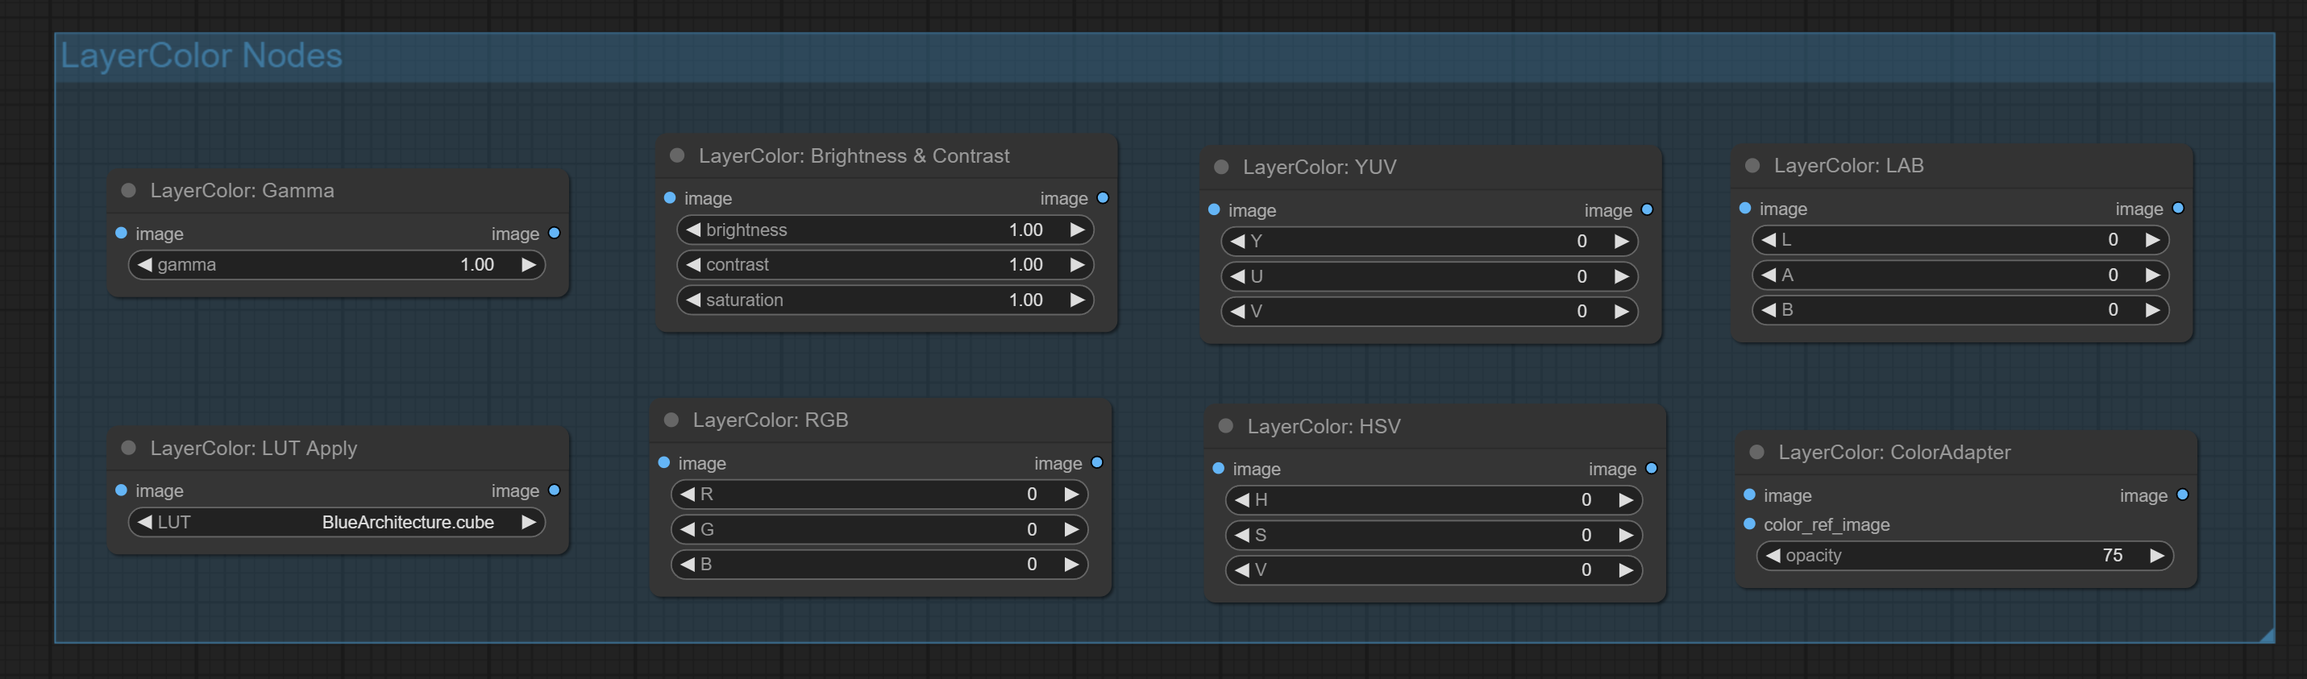
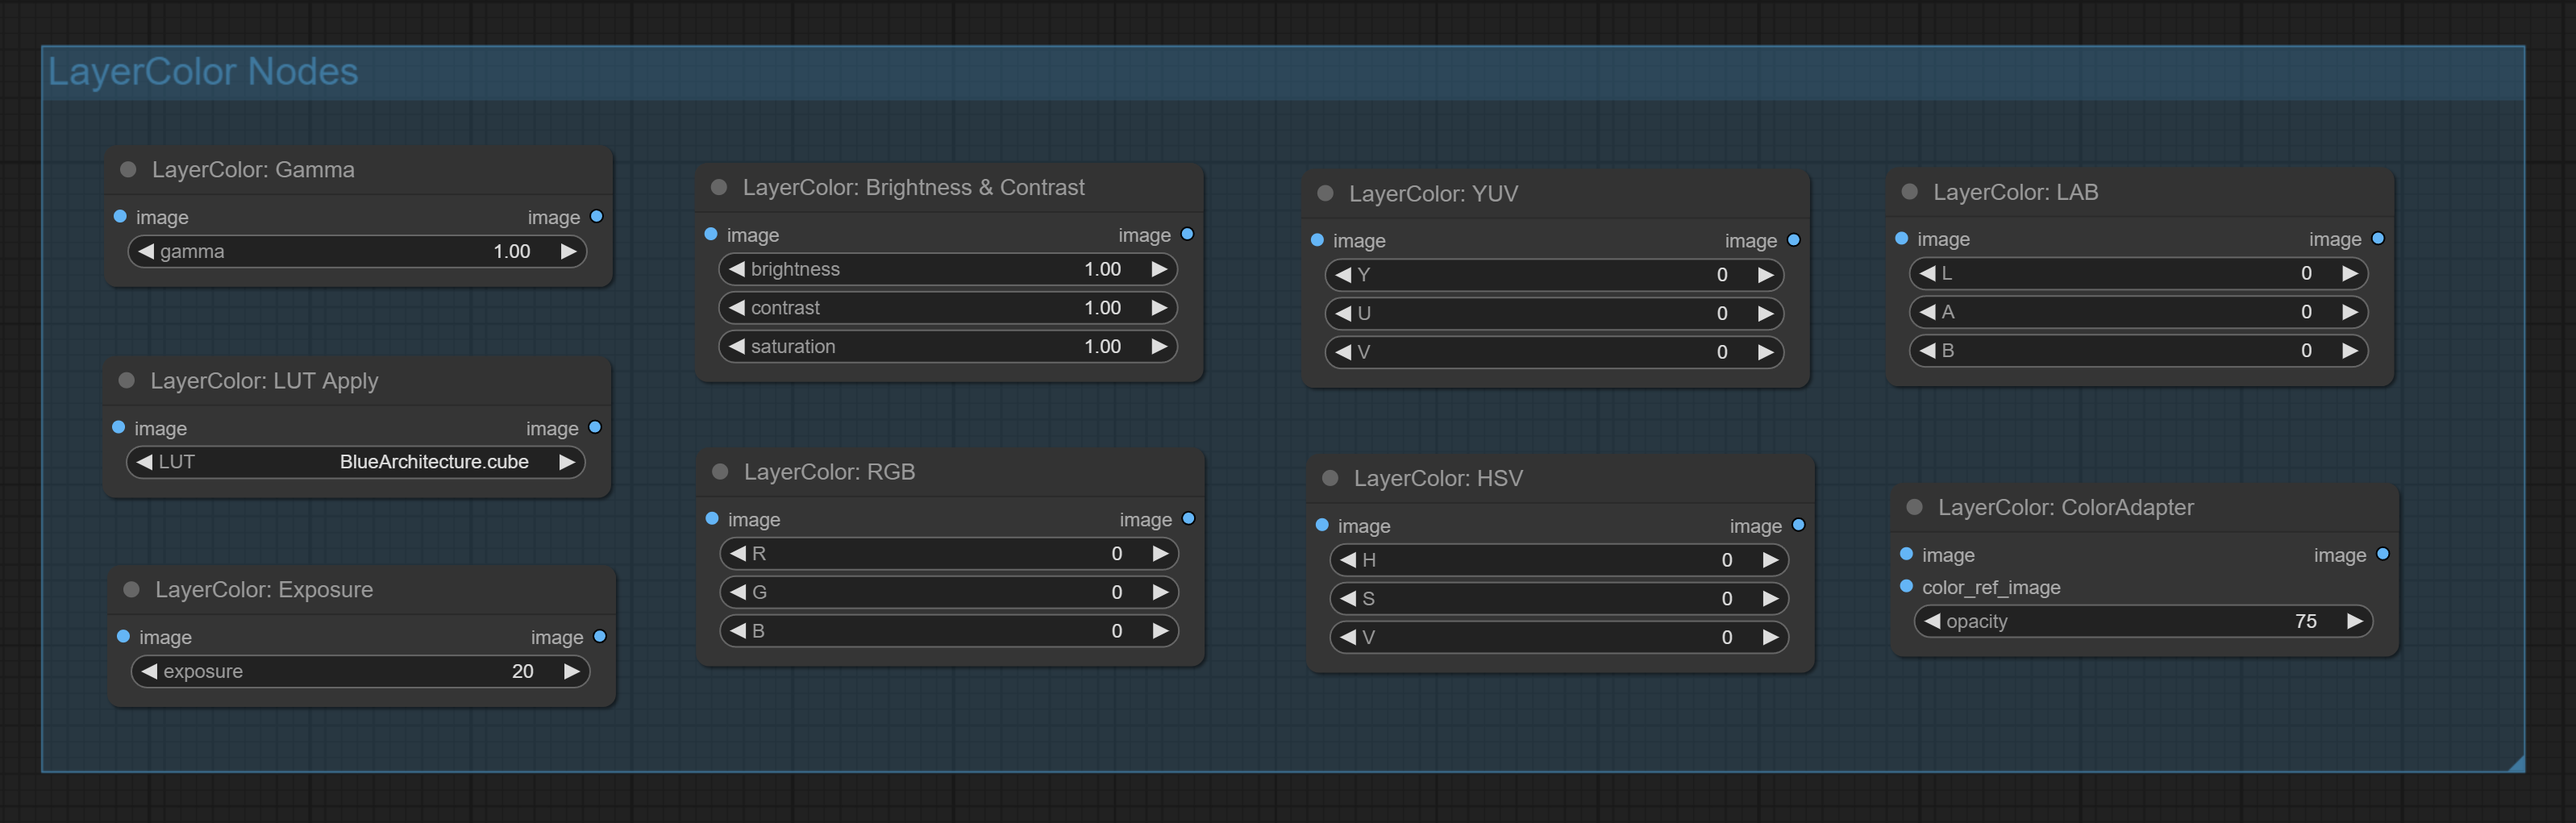
Commit MaskEdgeUltraDetail and Exposure nodes

diff --git a/py/mask_edge_ultrl_detail.py b/py/mask_edge_ultrl_detail.py
@@ -1,0 +1,82 @@
+from .imagefunc import *
+
+NODE_NAME = 'MaskEdgeUltraDetail'
+
+class MaskEdgeUltraDetail:
+    def __init__(self):
+        pass
+
+    @classmethod
+    def INPUT_TYPES(cls):
+        method_list = ['PyMatting', 'OpenCV-GuidedFilter']
+        return {
+            "required": {
+                "image": ("IMAGE",),
+                "mask": ("MASK",),
+                "method": (method_list,),
+                "mask_grow": ("INT", {"default": 0, "min": -999, "max": 999, "step": 1}),
+                "fix_gap": ("INT", {"default": 0, "min": 0, "max": 32, "step": 1}),
+                "fix_threshold": ("FLOAT", {"default": 0.75, "min": 0.01, "max": 0.99, "step": 0.01}),
+                "detail_range": ("INT", {"default": 12, "min": 0, "max": 256, "step": 1}),
+                "black_point": ("FLOAT", {"default": 0.01, "min": 0.01, "max": 0.98, "step": 0.01}),
+                "white_point": ("FLOAT", {"default": 0.99, "min": 0.02, "max": 0.99, "step": 0.01}),
+            },
+            "optional": {
+            }
+        }
+
+    RETURN_TYPES = ("IMAGE", "MASK", )
+    RETURN_NAMES = ("image", "mask", )
+    FUNCTION = "mask_edge_ultra_detail"
+    CATEGORY = '😺dzNodes/LayerMask'
+  
+    def mask_edge_ultra_detail(self, image, mask, method, mask_grow, fix_gap, fix_threshold,
+                               detail_range, black_point, white_point,):
+        ret_images = []
+        ret_masks = []
+        l_images = []
+        l_masks = []
+        if mask.dim() == 2:
+            mask = torch.unsqueeze(mask, 0)
+        for l in image:
+            l_images.append(torch.unsqueeze(l, 0))
+        for m in mask:
+            l_masks.append(torch.unsqueeze(m, 0))
+        if len(l_images) != len(l_masks) or tensor2pil(l_images[0]).size != tensor2pil(l_masks[0]).size:
+            log(f"Error: {NODE_NAME} skipped, because mask does'nt match image.")
+            return (image, mask,)
+
+        for i in range(len(l_images)):
+            _image = l_images[i]
+            orig_image = tensor2pil(_image).convert('RGB')
+            _mask = l_masks[i]
+            if mask_grow != 0:
+                _mask = expand_mask(_mask, mask_grow, mask_grow//2)
+            if method == 'OpenCV-GuidedFilter':
+                if fix_gap:
+                    _mask = mask_fix(_mask, 1, fix_gap, fix_threshold, fix_threshold)
+                _mask = guided_filter_alpha(_image, tensor2pil(_mask), detail_range, 0.15)
+                _mask = tensor2pil(histogram_remap(_mask, black_point, white_point))
+            else:
+                try:
+                    if fix_gap:
+                        _mask = mask_fix(_mask, 1, fix_gap, fix_threshold, fix_threshold)
+                    _mask = tensor2pil(mask_edge_detail(_image, tensor2pil(_mask), detail_range, black_point, white_point))
+                except Exception as e:
+                    log(f"{NODE_NAME} Error on process PyMatting, mask will output orignal.", message_type='error')
+                    print(e)
+                    _mask = tensor2pil(_mask)
+            ret_image = RGB2RGBA(orig_image, _mask.convert('L'))
+            ret_images.append(pil2tensor(ret_image))
+            ret_masks.append(image2mask(_mask))
+
+        log(f"{NODE_NAME} Processed {len(ret_images)} image(s).")
+        return (torch.cat(ret_images, dim=0), torch.cat(ret_masks, dim=0),)
+
+NODE_CLASS_MAPPINGS = {
+    "LayerMask: MaskEdgeUltraDetail": MaskEdgeUltraDetail,
+}
+
+NODE_DISPLAY_NAME_MAPPINGS = {
+    "LayerMask: MaskEdgeUltraDetail": "LayerMask: MaskEdgeUltraDetail",
+}

diff --git a/py/imagefunc.py b/py/imagefunc.py
@@ -678,7 +678,6 @@ def mask_edge_detail(image:torch.Tensor, mask:Image, detail_range:int=8, black_p
     d = detail_range * 5 + 1
     if not bool(d % 2):
         d += 1
-    print(f"mask_edge_detail: d={d}")
     i_dup = copy.deepcopy(image.cpu().numpy().astype(np.float64))
     a_dup = copy.deepcopy(pil2tensor(mask.convert('RGB')).cpu().numpy().astype(np.float64))
     for index, img in enumerate(i_dup):

diff --git a/README.MD b/README.MD
@@ -14,6 +14,7 @@ Nodes are divided into 5 groups according to their functions: LayerStyle, LayerC
 
 ## Update
 **If the dependency package error after updating, please reinstall the relevant dependency packages. for details, please refer to [here](https://github.com/chflame163/ComfyUI_LayerStyle/issues/5).
+* Commit [MaskEdgeUltraDetail](#MaskEdgeUltraDetail) node, it process rough masks to ultra fine edges.Commit [Exposure](#Exposure) node.
 * Commit [Sharp & Soft](#Sharp) node, it can enhance or smooth out image details. Commit [MaskByDifferent](#MaskByDifferent) node, it compare two images and output a Mask. Commit [SegmentAnythingUltra](#SegmentAnythingUltra) node, Improve the quality of mask edges. *If SegmentAnything is not installed, you will need to manually download the model.
 * All nodes have fully supported batch images, providing convenience for video creation.
 (The CropByMask node only supports cuts of the same size. if a batch mask_for_crop inputted, the data from the first sheet will be used.)
@@ -221,6 +222,13 @@ Auto adjust the color tone of the image to resemble the reference image.
 Node options:  
 ![image](image/color_adapter_node.png)
 * opacity: The opacity of an image after adjusting its color tone.
+
+### <a id="table1">Exposure</a>
+Change the exposure of the image.
+![image](image/exposure_example.png)
+
+Node option:  
+* exposure: Exposure value. Higher values indicate brighter image.
 
 ### <a id="table1">Gamma</a>
 Change the gamma value of the image.
@@ -628,6 +636,22 @@ Node options:
 * fix_gap: Fix the internal gaps of the mask. higher value will repair larger gaps.
 * fix_threshold: The threshold for fix_gap.
 * main_subject_detect: Setting this to True will enable subject detection, ignoring differences outside of the subject.
+
+
+### <a id="table1">MaskEdgeUltraDetail</a>
+Process rough masks to ultra fine edges.
+![image](image/mask_edge_ultra_detail_example.png)
+
+Node options:  
+![image](image/mask_edge_ultra_detail_node.png)
+* method: Provide two methods for edge processing: PyMatting and OpenCV-GuidedFilter. PyMatching has a slower processing speed, but for video, it is recommended to use this method to obtain smoother mask sequences.
+* mask_grow: Mask expansion amplitude. positive values expand outward, while negative values contract inward. For rougher masks, negative values are usually used to shrink their edges for better results.
+* fix_gap: Repair the gaps in the mask. if obvious gaps in the mask, increase this value appropriately.
+* fix_threshold: The threshold of fix_gap.
+* detail_range: Edge detail range.
+* black_point: Edge black sampling threshold.
+* white_point: Edge white sampling threshold.
+
 
 ### <a id="table1">MaskGrow</a>
 Grow and shrink edges and blur the mask
